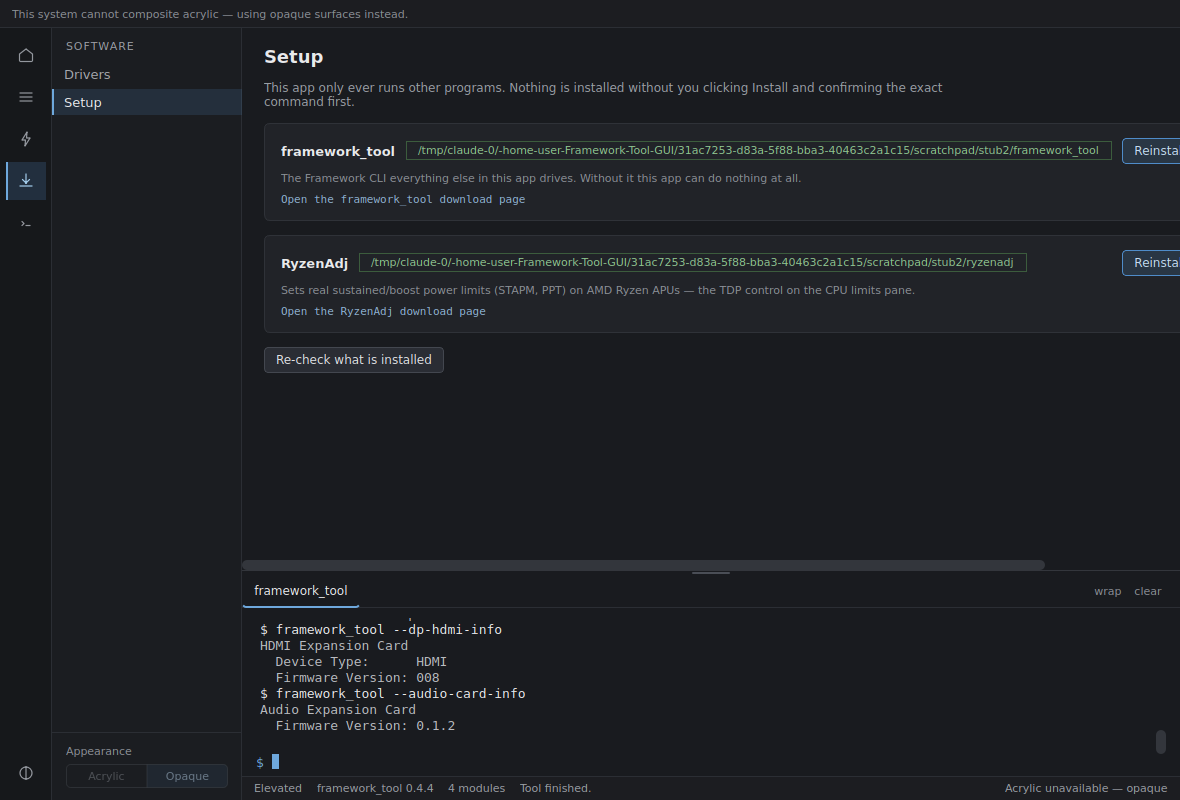
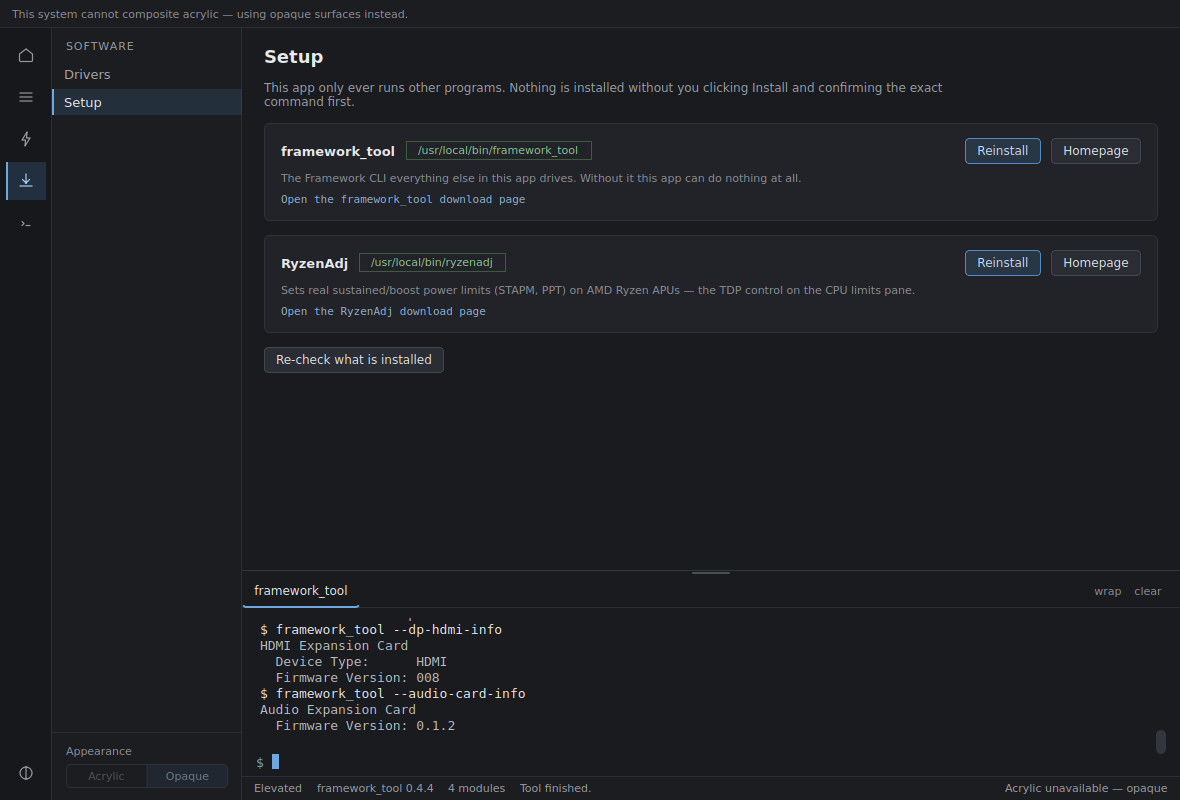
Stop a long binary path pushing the Setup buttons off the pane, and fix CI
CI caught the important one: tests/test_commands.py imported framework_gui
at module level, which pulls in PySide6, and the Windows job runs the logic
tests with no toolkit installed. That is the rule this repo already has —
the UI layer is confined to two modules precisely so everything else tests
without a display — and the new file broke it.

It needs two things off App: BLOCKED and the SETTING_PARSERS keys. Both are
read out of the source with ast now, so the assertions run on both CI jobs
instead of skipping on the one where a packaging mistake would show up.
SETTING_PARSERS maps to function references, so only its keys are literals;
TestSourceExtraction guards against the parse silently returning nothing and
making the blocked-flag checks pass vacuously.

The other fix came from looking at the Setup screenshot. An installed tool's
full path goes in a Badge, and a real Windows one —
C:\Users\...\AppData\Local\Microsoft\WinGet\Links\framework_tool.EXE — is
long enough to stretch the row until the Install and Homepage buttons are
pushed clean off the pane. That is the exact path in the original bug
report, so it would have hit this machine. Badge takes an optional width cap
and elides from the left, keeping the end of the path, which is the part
that identifies the binary; the full text is the tooltip. Verified with a
path of that shape: nothing overflows now.

Also corrects the Ports pane intro, which still named only --pdports.
[…]

Changed region(s): [[0.3661, 0.1562, 1.0, 0.2188], [0.3051, 0.3125, 1.0, 0.3438], [0.2136, 0.6875, 0.8847, 0.7188]]

diff --git a/tests/test_commands.py b/tests/test_commands.py
@@ -22,6 +22,7 @@ alongside the caller, and read the "not yet verified" note in CLAUDE.md
 about output formats before assuming the rest still works.
 """
 
+import ast
 import os
 import re
 import sys
@@ -29,9 +30,65 @@ import unittest
 
 sys.path.insert(0, os.path.join(os.path.dirname(__file__), ".."))
 
-import framework_gui  # noqa: E402
 import navigation  # noqa: E402
 import power  # noqa: E402
+
+GUI_SOURCE_PATH = os.path.join(os.path.dirname(__file__), "..",
+                               "framework_gui.py")
+
+with open(GUI_SOURCE_PATH, encoding="utf-8") as _fh:
+    GUI_SOURCE = _fh.read()
+
+
+def _app_attribute(name):
+    """Read one class attribute off App without importing framework_gui.
+
+    Importing it would pull in PySide6, and these are logic tests — they run
+    on CI jobs that deliberately have no toolkit installed, which is the
+    whole reason the UI layer is confined to two modules. Parsing the source
+    keeps the assertions running everywhere instead of skipping exactly
+    where a packaging mistake would show up.
+    """
+    tree = ast.parse(GUI_SOURCE)
+    app = next(node for node in ast.walk(tree)
+               if isinstance(node, ast.ClassDef) and node.name == "App")
+    for statement in app.body:
+        if not isinstance(statement, ast.Assign):
+            continue
+        for target in statement.targets:
+            if not (isinstance(target, ast.Name) and target.id == name):
+                continue
+            value = statement.value
+            if isinstance(value, ast.Dict):
+                # Only the keys are literals — SETTING_PARSERS maps them to
+                # function references, which do not survive literal_eval and
+                # are not what is being asserted about anyway.
+                return [ast.literal_eval(key) for key in value.keys]
+            return ast.literal_eval(value)
+    raise AssertionError("App has no attribute " + name)
+
+
+BLOCKED = _app_attribute("BLOCKED")
+SETTING_PARSER_NAMES = set(_app_attribute("SETTING_PARSERS"))
+
+
+class TestSourceExtraction(unittest.TestCase):
+    """The parsing above must not fail open.
+
+    An empty set here would make the blocked-flag assertions pass without
+    checking anything, which is a worse outcome than the import error this
+    replaced.
+    """
+
+    def test_blocked_flags_were_found(self):
+        self.assertIn("--flash-ec", BLOCKED)
+        self.assertGreaterEqual(len(BLOCKED), 5)
+
+    def test_setting_parsers_were_found(self):
+        self.assertIn("charge_limit", SETTING_PARSER_NAMES)
+
+    def test_the_source_was_read(self):
+        self.assertIn("class App", GUI_SOURCE)
 
 # ---------------------------------------------------------------------------
 # framework_tool's published interface.
@@ -152,7 +209,7 @@ class TestSettingsRowsUseRealFlags(unittest.TestCase):
         for row in navigation.SETTINGS_ROWS:
             name = row.get("parse")
             if name is not None:
-                self.assertIn(name, framework_gui.App.SETTING_PARSERS,
+                self.assertIn(name, SETTING_PARSER_NAMES,
                               f"{row['key']} names unknown parser {name!r}")
 
     def test_a_row_with_no_read_offers_no_get(self):
@@ -179,14 +236,7 @@ class TestPortQueriesUseRealFlags(unittest.TestCase):
 class TestAppCommandsUseRealFlags(unittest.TestCase):
     """Sweep the source for argument lists handed to _exec/run."""
 
-    SOURCE = None
-
-    @classmethod
-    def setUpClass(cls):
-        path = os.path.join(os.path.dirname(__file__), "..",
-                            "framework_gui.py")
-        with open(path, encoding="utf-8") as fh:
-            cls.SOURCE = fh.read()
+    SOURCE = GUI_SOURCE
 
     def emitted_flags(self):
         """Every framework_tool flag that appears in an argument list.
@@ -233,13 +283,13 @@ class TestAppCommandsUseRealFlags(unittest.TestCase):
 
     def test_blocked_flags_are_flags_that_exist(self):
         """Blocking a misspelled flag protects nothing."""
-        for flag in framework_gui.App.BLOCKED:
+        for flag in BLOCKED:
             self.assertIn(flag, FRAMEWORK_TOOL_FLAGS,
                           f"{flag} is blocked but is not a real flag")
 
     def test_nothing_blocked_is_reachable_from_a_button(self):
         self.assertEqual(
-            framework_gui.App.BLOCKED & self.emitted_flags(), set(),
+            BLOCKED & self.emitted_flags(), set(),
             "a blocked flag is wired to a control")
 
     def test_the_port_fallback_is_wired_up(self):

diff --git a/widgets.py b/widgets.py
@@ -283,13 +283,44 @@ class TimedBar(QWidget):
 
 
 class Badge(QLabel):
-    """A pill: `detected`, `Backend: RyzenAdj`, `not found`."""
+    """A pill: `detected`, `Backend: RyzenAdj`, `not found`.
 
-    def __init__(self, text, variant="ok", parent=None):
+    `elide` caps how wide the pill may get and truncates from the left when
+    the text is longer. The Setup pane puts an installed tool's *full path*
+    in one of these, and a real one is long —
+    `C:\\Users\\…\\AppData\\Local\\Microsoft\\WinGet\\Links\\framework_tool.EXE` —
+    which stretched the row until the Install and Homepage buttons beside it
+    were pushed off the pane entirely. Truncating from the left keeps the
+    end of the path, which is the part that identifies the binary; the full
+    text stays available as the tooltip.
+    """
+
+    def __init__(self, text, variant="ok", parent=None, elide=0):
         super().__init__(text, parent)
         self.setProperty("role", "badge")
         self.setProperty("badge", variant)
         self.setSizePolicy(QSizePolicy.Maximum, QSizePolicy.Fixed)
+        self._elide = elide
+        self._full = text
+        if elide:
+            self.setMaximumWidth(elide)
+            self.setToolTip(text)
+
+    def setText(self, text):
+        self._full = text
+        if self._elide:
+            self.setToolTip(text)
+        super().setText(text)
+
+    def paintEvent(self, event):
+        if self._elide:
+            metrics = self.fontMetrics()
+            # 18px for the pill's own horizontal padding.
+            room = max(0, self.width() - 18)
+            shown = metrics.elidedText(self._full, Qt.ElideLeft, room)
+            if shown != super().text():
+                super().setText(shown)
+        super().paintEvent(event)
 
     def set_variant(self, variant):
         self.setProperty("badge", variant)

diff --git a/framework_gui.py b/framework_gui.py
@@ -1225,8 +1225,9 @@ class App(QMainWindow):
     def _page_ports(self, box, parent):
         self._heading(
             box, parent, "Ports & modules",
-            "Roles and negotiated power come from --pdports; module identity "
-            "from --pd-info, --dp-hdmi-info and --audio-card-info.")
+            "Roles and negotiated power come from --pdports, or from "
+            "--pdports-chromebook on an EC without it; module identity from "
+            "--pd-info, --dp-hdmi-info and --audio-card-info.")
         panel = widgets.Panel(parent)
         panel.body.setSpacing(0)
         panel.body.addWidget(self._port_row(
@@ -1954,8 +1955,11 @@ class App(QMainWindow):
             header = QHBoxLayout()
             header.setSpacing(theme.SPACE[4])
             header.addWidget(label(dep["name"], "name", panel))
+            # Capped: an installed tool's full path can be long enough to
+            # push the buttons beside it off the pane.
             header.addWidget(widgets.Badge(found or "not found",
-                                           "ok" if found else "danger", panel))
+                                           "ok" if found else "danger", panel,
+                                           elide=theme.BADGE_PATH_WIDTH))
             header.addStretch(1)
             install = QPushButton("Reinstall" if found else "Install", panel)
             install.setProperty("role", "accent")

diff --git a/theme.py b/theme.py
@@ -67,6 +67,11 @@ CARD_PADDING = (11, 9)
 
 # Window geometry. Below MIN_PANE_WIDTH the pane list collapses and the rail
 # alone drives navigation; see navigation.py.
+# How wide a badge showing a filesystem path may get before it truncates.
+# Setup shows an installed helper's full path in one, and a real Windows one
+# is long enough to shove the Install/Homepage buttons out of the pane.
+BADGE_PATH_WIDTH = 300
+
 WINDOW_SIZE = (1180, 780)
 MIN_WINDOW_SIZE = (980, 640)
 PANE_COLLAPSE_WIDTH = 1040
